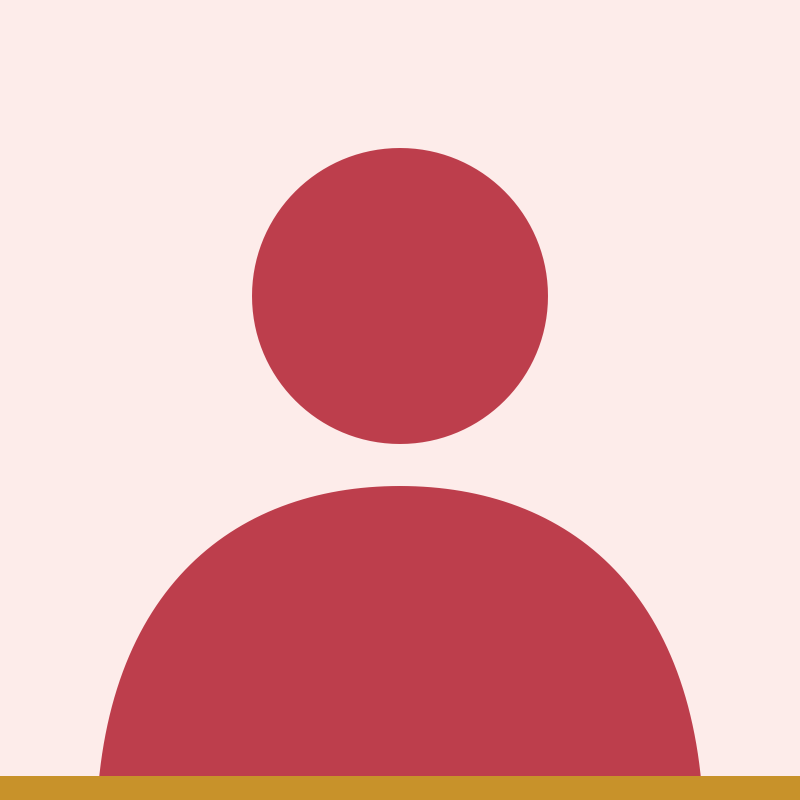
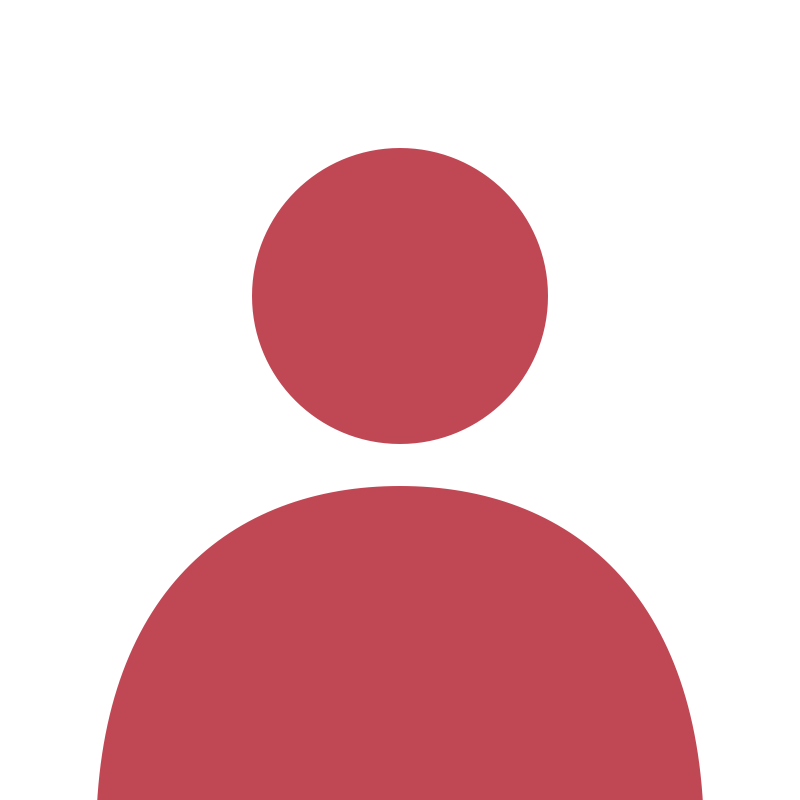
Carry the counselor's starting values in the template, not only in defaultProps
A page scaffolded from a template gets the record block's props verbatim, and
the block carried only `{ id }` — so the first page created live had no role,
no office and no booking button, while a block dragged from the drawer had all
three. The template snapshot now holds the same defaults as the component.

The silhouette becomes a transparent PNG and the tile behind it is drawn by the
component, one step off the section (blush on white, white on a tint), so a
"White" background reads as white instead of a large rose square. The profile
defaults to a white section to match.

Changed region(s): [[0.0, 0.9688, 1.0, 1.0]]

diff --git a/components/puck/glu-person-profile.tsx b/components/puck/glu-person-profile.tsx
@@ -203,6 +203,14 @@ export function GLUPersonProfile(props: GLUPersonProfileProps) {
   const src = headshotOrSilhouette(photoUrl);
   const ink = onDark ? colors.white : colors.dark;
   const soft = onDark ? "rgba(255,255,255,0.78)" : colors.muted;
+  // The silhouette is a transparent PNG, so the tile behind it is chosen here
+  // to sit one step off the section: a white section gets a blush tile, a
+  // tinted one gets white, crimson gets a translucent lift. A photo covers it.
+  const tileBg = onDark
+    ? "rgba(255,255,255,0.12)"
+    : background === "white"
+      ? colors.offWhite
+      : colors.white;
 
   const photo = (
     <div
@@ -214,6 +222,7 @@ export function GLUPersonProfile(props: GLUPersonProfileProps) {
         overflow: "hidden",
         boxShadow: shadows.lg,
         border: `4px solid ${onDark ? "rgba(255,255,255,0.18)" : colors.white}`,
+        backgroundColor: tileBg,
         flexShrink: 0,
         margin: centered ? "0 auto" : undefined,
       }}
@@ -403,7 +412,7 @@ export const gluPersonProfileConfig = {
     photoUrl: "",
     bio: "",
     layout: "split",
-    background: "offWhite",
+    background: "white",
     photoShape: "rounded",
   },
   render: GLUPersonProfile,

diff --git a/components/puck/glu-listing.tsx b/components/puck/glu-listing.tsx
@@ -453,6 +453,8 @@ function PersonCards({
                   borderRadius: photoShape === "circle" ? radii.full : radii.xl,
                   marginBottom: spacing[4],
                   boxShadow: shadows.sm,
+                  // Behind the transparent silhouette; a photo covers it.
+                  backgroundColor: flatOnDark ? "rgba(255,255,255,0.12)" : colors.lightBlue,
                 }}
               />
             )}

diff --git a/stories/glu-person-profile.stories.tsx b/stories/glu-person-profile.stories.tsx
@@ -60,7 +60,7 @@ export const FreshFromTemplate: Story = {
     photoUrl: "",
     bio: "",
     layout: "split",
-    background: "offWhite",
+    background: "white",
     photoShape: "rounded",
   },
 };
